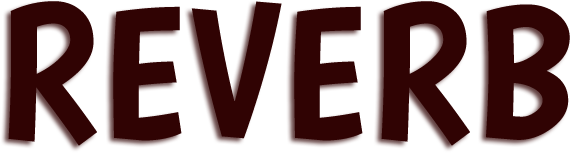
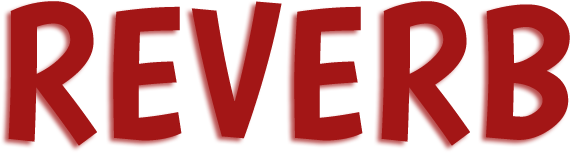
Noise Issue fixed

diff --git a/Assets/Scripts/EffectsController.cs b/Assets/Scripts/EffectsController.cs
@@ -22,6 +22,8 @@ public class EffectsController : MonoBehaviour
     public AudioReverbFilter audioReverbFilter;
     public AudioDistortionFilter audioDistortionFilter;
 
+    public AudioSource noiseSource;
+
     // Start is called before the first frame update
     void Start()
     {
@@ -29,11 +31,29 @@ public class EffectsController : MonoBehaviour
         audioReverbFilter.enabled = false;
         audioDistortionFilter.enabled = false;
     }
+    public void StartNoise()
+    {
+        noiseSource.Play();
+        noise.sprite = noise_red;
+    }
+    public void StopNoise()
+    {
+        noiseSource.Pause();
+        noise.sprite = noise_white;
+    }
+
 
     public void ToogleNoise()
     {
-        audioDistortionFilter.enabled = !audioDistortionFilter.enabled;
-        if (audioDistortionFilter.enabled)
+        if (noiseSource.isPlaying)
+        {
+            noiseSource.Pause();
+        }
+        else
+        {
+            noiseSource.Play();
+        }
+        if (noiseSource.isPlaying)
         {
             noise.sprite = noise_red;
         }
